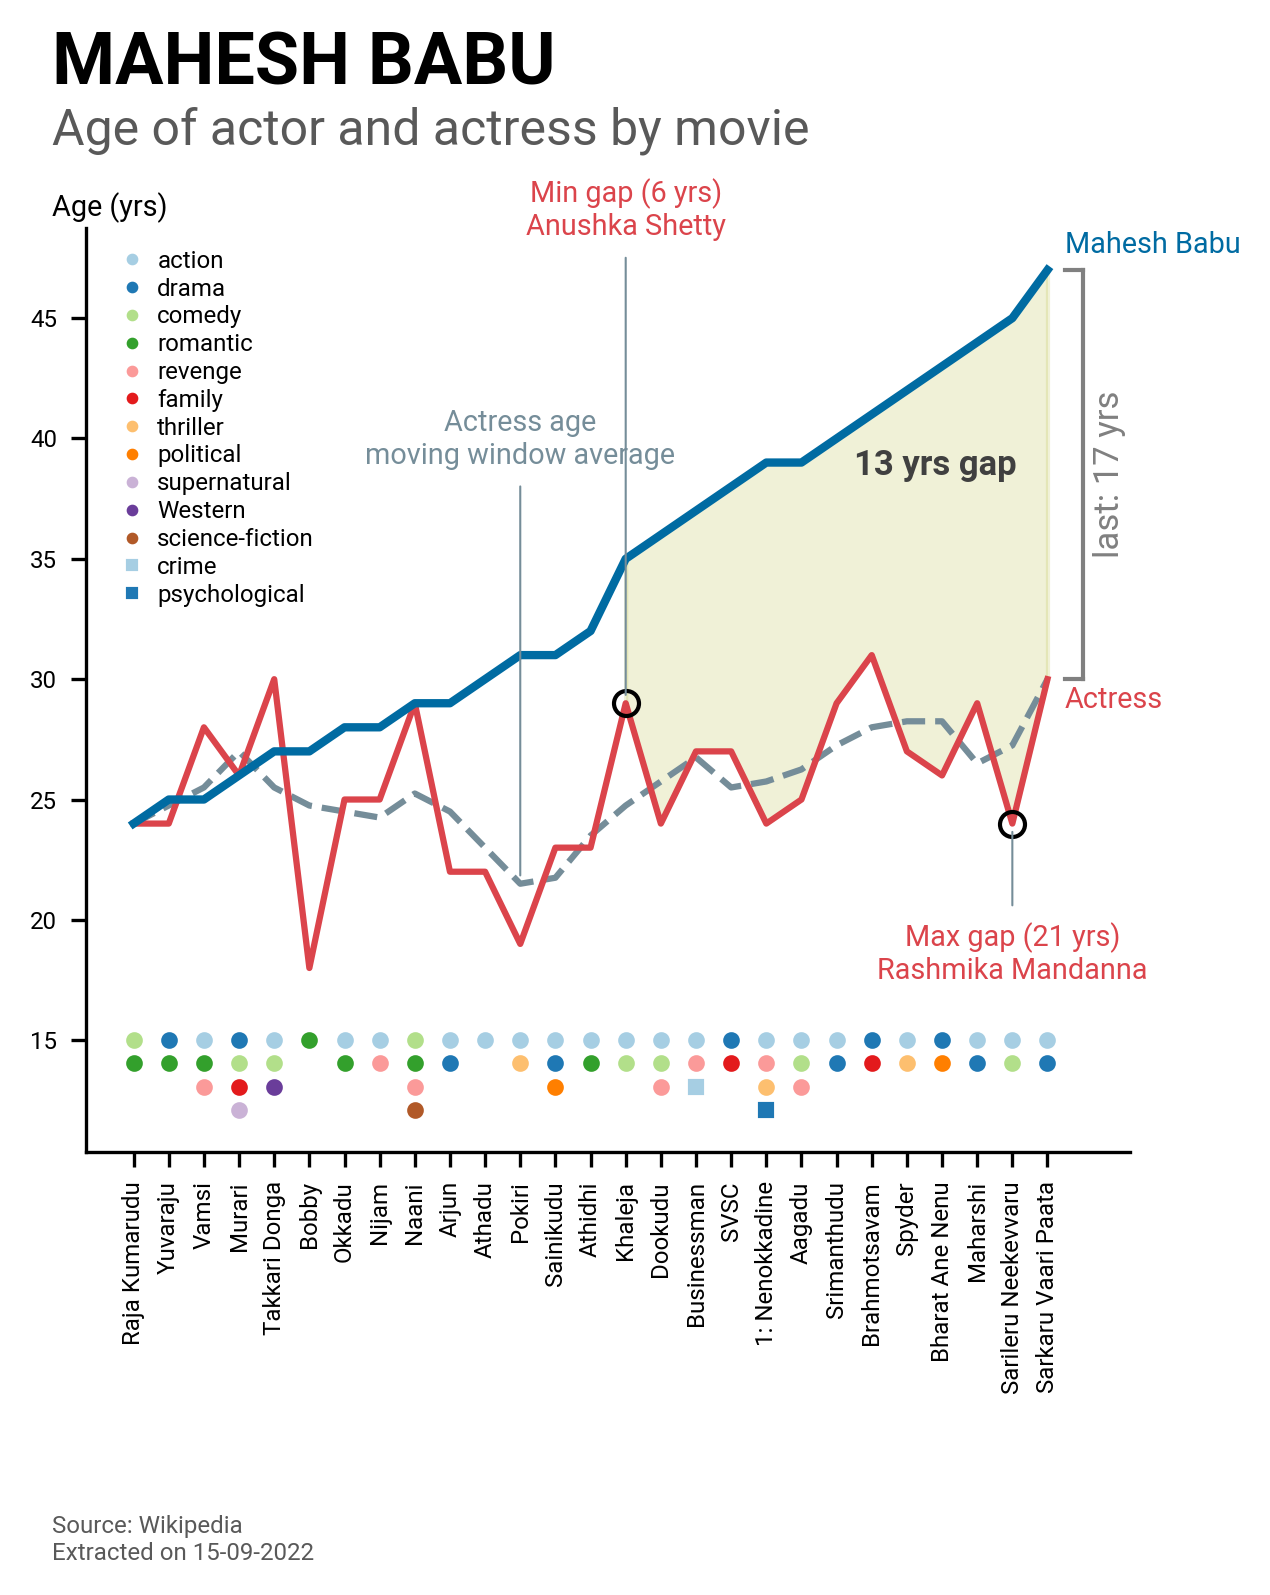
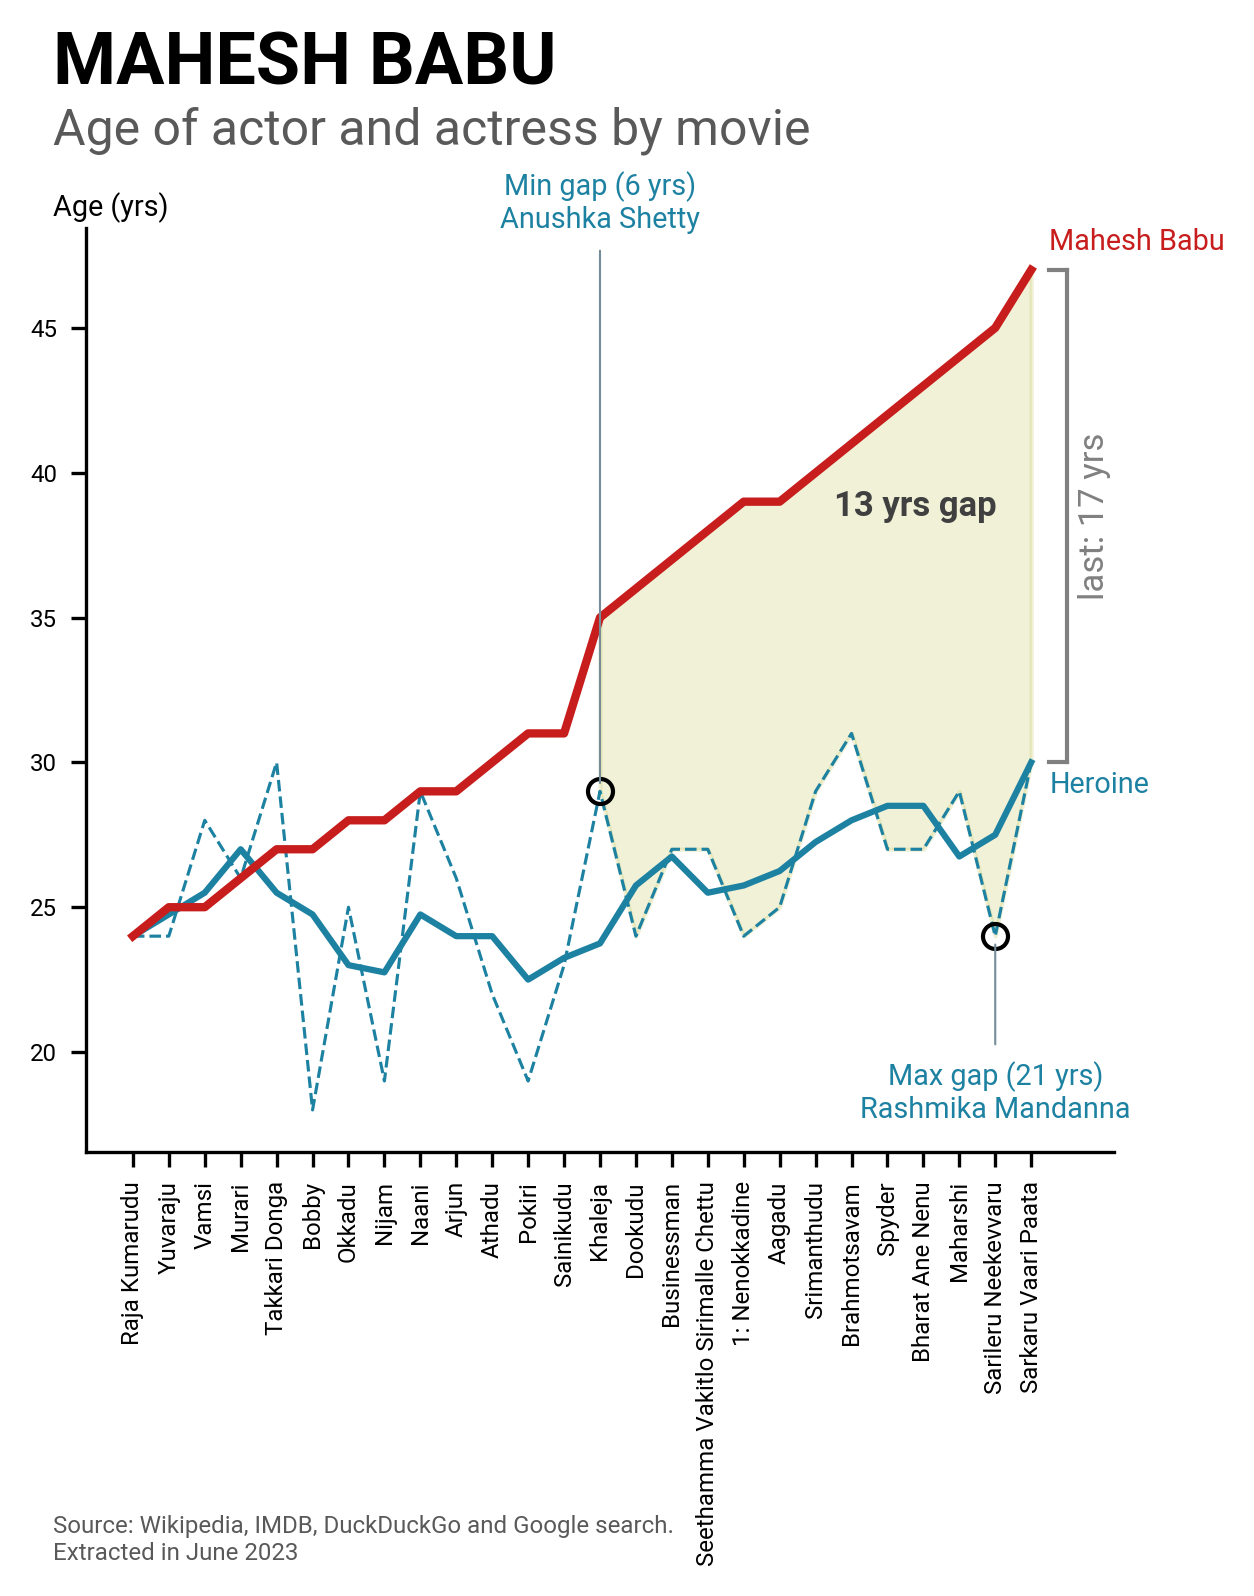
movie updates

diff --git a/projects/cricket_analytics/ipl_batters_strategies/ipl_batters_strategies.html b/projects/cricket_analytics/ipl_batters_strategies/ipl_batters_strategies.html
@@ -356,7 +356,7 @@ gtag('config', 'G-1TYCEPVLW0', { 'anonymize_ip': true});
 <section id="the-trade-off-between-strike-rate-and-risk" class="level2">
 <h2 class="anchored" data-anchor-id="the-trade-off-between-strike-rate-and-risk">The trade-off between strike-rate and risk</h2>
 <p>The trade-off between risk and strike-rate takes the center stage in individual batter strategies. A batter willing to take more risk has access to a wider range of shots for each ball, often diverging employing shots that diverge from the prescribed shots in the coaching manual. Some batters like Andre Russell score quick runs while taking more risks. This increases their chance of getting out each ball, and thereby they end up playing fewer balls. Such finishers usually come later in the innings when there aren’t a lot of balls left. Some teams like the Kolkata Knight Riders have often sent out “pinch hitters” like Sunil Narine earlier in the innings, often as an opener. On the other hand, batters like AB de Villiers and Jos Buttler switch gears between low and moderate risk. But even at the highest risk, the emphasis is slightly more on surviving to play another ball than is for batters like Andre Russell. More conventional batters like Mike Hussey, Tendulkar and Kallis rely heavily on a risk-minimal approach unless the situation strongly demands otherwise.</p>
-<p><a href="strike-rates_balls-faced_allbatters_ipl_mobile.png" class="lightbox" title="Strike-rates vs balls faced" data-gallery="quarto-lightbox-gallery-1"><img src="strike-rates_balls-faced_allbatters_ipl_mobile.png" class="mobile-only zoomable img-fluid" alt="Strike-rates vs balls faced"></a> <a href="strike-rates_balls-faced_allbatters_ipl_desktop.png" class="lightbox" title="Strike-rates vs balls faced" data-gallery="quarto-lightbox-gallery-2"><img src="strike-rates_balls-faced_allbatters_ipl_desktop.png" class="desktop-only zoomable img-fluid" alt="Strike-rates vs balls faced"></a></p>
+<p><a href="strike-rates_balls-faced_allbatters_ipl_mobile.png" class="lightbox" data-gallery="quarto-lightbox-gallery-1" title="Strike-rates vs balls faced"><img src="strike-rates_balls-faced_allbatters_ipl_mobile.png" class="mobile-only zoomable img-fluid" alt="Strike-rates vs balls faced"></a> <a href="strike-rates_balls-faced_allbatters_ipl_desktop.png" class="lightbox" data-gallery="quarto-lightbox-gallery-2" title="Strike-rates vs balls faced"><img src="strike-rates_balls-faced_allbatters_ipl_desktop.png" class="desktop-only zoomable img-fluid" alt="Strike-rates vs balls faced"></a></p>
 <p>The figure above illustrates some aspects of this trade-off. Keeping tail-enders aside, notice that batters are spread on the diagonal from the top left to the bottom right. Classical players like Mike Hussey, Kallis, Tendulkar and Gaikwad are in the top left quarter - they play more balls than most others and hit at a lower strike-rate than most others. As we move through the large group of unnamed batters marked in blue, we find another group of players like Maxwell, Pollard and Hardik Pandya who play fewer balls than most others and hit at a higher rate than most others. Some notable exceptions are batters who seem to escape this trade-off, or perhaps push it to its limits - KL Rahul, Jos Buttler, AB de Villiers, Warner, Gayle, Russell and the like.</p>
 <p>Openers play more balls than the other batter types while also exhibiting a wide range of strike-rates. For example, Gaikwad’s average strike-rate is just short of 100 and Jos Buttler’s is around 135. Gaikwad, however, typically plays a few more balls than Jos Buttler. How do these different strategies impact the match outcome?</p>
 </section>
@@ -364,7 +364,7 @@ gtag('config', 'G-1TYCEPVLW0', { 'anonymize_ip': true});
 <h2 class="anchored" data-anchor-id="strategy-differences-between-winning-and-losing">Strategy differences between winning and losing</h2>
 <p>Separating the innings played by each batter into two groups based on whether their team won or lost the match, we can measure how different the batters strategies are in the two groups.</p>
 <p>Instead of measuring the difference between mean strike-rate in wins and mean strike-rate in losses for each batter, we use <em>percentile scores</em>. The mean percentile score from strike-rates in wins (losses) tells us overall in all innings, how often the batter scores slower than they typically score at in wins (losses). The difference between these two values (wins minus losses) quantifies the typical increase (if positive) or decrease (if negative) of strike-rates from losses to wins. A similar logic applies for balls faced - the difference between mean percentile scores in wins and losses quantifies the typical increase (if positive) or decrease (if negative) in the number of balls faced from losses to wins.</p>
-<p><a href="match-outcomes_strike-rates_balls-faced_allbatters_ipl_mobile.png" class="lightbox" title="Differences in strike-rates and balls faced between wins and losses" data-gallery="quarto-lightbox-gallery-3"><img src="match-outcomes_strike-rates_balls-faced_allbatters_ipl_mobile.png" class="mobile-only img-fluid" alt="Differences in strike-rates and balls faced between wins and losses"></a> <a href="match-outcomes_strike-rates_balls-faced_allbatters_ipl_desktop.png" class="lightbox" title="Differences in strike-rates and balls faced between wins and losses" data-gallery="quarto-lightbox-gallery-4"><img src="match-outcomes_strike-rates_balls-faced_allbatters_ipl_desktop.png" class="desktop-only img-fluid" alt="Differences in strike-rates and balls faced between wins and losses"></a></p>
+<p><a href="match-outcomes_strike-rates_balls-faced_allbatters_ipl_mobile.png" class="lightbox" data-gallery="quarto-lightbox-gallery-3" title="Differences in strike-rates and balls faced between wins and losses"><img src="match-outcomes_strike-rates_balls-faced_allbatters_ipl_mobile.png" class="mobile-only img-fluid" alt="Differences in strike-rates and balls faced between wins and losses"></a> <a href="match-outcomes_strike-rates_balls-faced_allbatters_ipl_desktop.png" class="lightbox" data-gallery="quarto-lightbox-gallery-4" title="Differences in strike-rates and balls faced between wins and losses"><img src="match-outcomes_strike-rates_balls-faced_allbatters_ipl_desktop.png" class="desktop-only img-fluid" alt="Differences in strike-rates and balls faced between wins and losses"></a></p>
 
 <div class="no-row-height column-margin column-container"><div class="">
 <p><strong>How is the calculation done?</strong> Percentile scores transform data into values between 0 and 1, making comparisons across datasets with different ranges easier. The percentile score of a particular value is the fraction of data that is smaller than the value. We do this for each batter separately for both strike-rates and balls faced. The percentile score of a particular strike-rate (in some particular innings) of a batter tells us how often the batter has scored slower than in that innings. So for the batter’s IPL career-best strike-rate, the percentile score would be 1 (signifying that the batter plays slower in all other innings), and for the batter’s IPL career-worst strike rate, the percentile score would be 0.</p>
@@ -1932,7 +1932,7 @@ window.document.addEventListener("DOMContentLoaded", function (event) {
     <div class="nav-footer-left">© Copyright 2023 Roshan Prizak. Except where otherwise noted, all text and images licensed CC-BY-NC 4.0.</div>   
   </div>
 </footer>
-<script>var lightboxQuarto = GLightbox({"descPosition":"bottom","closeEffect":"zoom","loop":true,"selector":".lightbox","openEffect":"zoom"});</script>
+<script>var lightboxQuarto = GLightbox({"selector":".lightbox","descPosition":"bottom","closeEffect":"zoom","openEffect":"zoom","loop":true});</script>
 
 
 

diff --git a/projects/the_india_project/movies_india/movies_india.html b/projects/the_india_project/movies_india/movies_india.html
@@ -377,7 +377,7 @@ gtag('config', 'G-1TYCEPVLW0', { 'anonymize_ip': true});
 <p><a href="./hero_based_age_gap/Chiranjeevi.png" class="lightbox hero-link" title="Chiranjeevi" data-gallery="my-gallery"> <img src="avatars/Chiranjeevi.jpg" width="75px" height="75px" class="avatar"> </a></p>
 </div>
 <div class="g-col-3">
-<p><a href="./hero_based_age_gap/NTR Jr.png" class="lightbox hero-link" title="NTR Jr" data-gallery="my-gallery"> <img src="avatars/NTR Jr.jpg" width="75px" height="75px" class="avatar"> </a></p>
+<p><a href="./hero_based_age_gap/Jr. NTR.png" class="lightbox hero-link" title="NTR Jr" data-gallery="my-gallery"> <img src="avatars/NTR Jr.jpg" width="75px" height="75px" class="avatar"> </a></p>
 </div>
 <div class="g-col-3">
 <p><a href="./hero_based_age_gap/Akshay Kumar.png" class="lightbox hero-link" title="Akshay Kumar" data-gallery="my-gallery"> <img src="avatars/Akshay Kumar.jpg" width="75px" height="75px" class="avatar"> </a></p>
@@ -395,7 +395,7 @@ gtag('config', 'G-1TYCEPVLW0', { 'anonymize_ip': true});
 <p><a href="./hero_based_age_gap/Nagarjuna.png" class="lightbox hero-link" title="Nagarjuna" data-gallery="my-gallery"> <img src="avatars/Nagarjuna.jpg" width="75px" height="75px" class="avatar"> </a></p>
 </div>
 <div class="g-col-3">
-<p><a href="./hero_based_age_gap/Balakrishna.png" class="lightbox hero-link" title="Balakrishna" data-gallery="my-gallery"> <img src="avatars/Balakrishna.jpg" width="75px" class="avatar"> </a></p>
+<p><a href="./hero_based_age_gap/Nandamuri Balakrishna.png" class="lightbox hero-link" title="Balakrishna" data-gallery="my-gallery"> <img src="avatars/Balakrishna.jpg" width="75px" class="avatar"> </a></p>
 </div>
 <div class="g-col-3">
 <p><a href="./hero_based_age_gap/Pawan Kalyan.png" class="lightbox hero-link" title="Pawan Kalyan" data-gallery="my-gallery"> <img src="avatars/Pawan Kalyan.jpg" width="75px" height="75px" class="avatar"> </a></p>
@@ -447,30 +447,30 @@ gtag('config', 'G-1TYCEPVLW0', { 'anonymize_ip': true});
 <section id="ages-and-age-gaps-over-the-years" class="level3">
 <h3 class="anchored" data-anchor-id="ages-and-age-gaps-over-the-years">Ages and age gaps over the years</h3>
 <div style="min-height:400px; max-width: 600px; margin-top:30px;">
-<script type="text/javascript" defer="" src="https://datawrapper.dwcdn.net/60eFX/embed.js" charset="utf-8"></script>
+<script type="text/javascript" defer="" src="https://datawrapper.dwcdn.net/VymrI/embed.js" charset="utf-8"></script>
 <noscript>
-<img src="https://datawrapper.dwcdn.net/60eFX/full.png" alt="">
+<img src="https://datawrapper.dwcdn.net/VymrI/full.png" alt="">
 </noscript>
 </div>
 <div style="min-height:400px; max-width: 600px; margin-top:30px;">
-<script type="text/javascript" defer="" src="https://datawrapper.dwcdn.net/HUMKE/embed.js" charset="utf-8"></script>
+<script type="text/javascript" defer="" src="https://datawrapper.dwcdn.net/uNrVT/embed.js" charset="utf-8"></script>
 <noscript>
-<img src="https://datawrapper.dwcdn.net/HUMKE/full.png" alt="">
+<img src="https://datawrapper.dwcdn.net/uNrVT/full.png" alt="">
 </noscript>
 </div>
 <div style="min-height:400px; max-width: 600px; margin-top:30px;">
-<script type="text/javascript" defer="" src="https://datawrapper.dwcdn.net/kir9k/embed.js" charset="utf-8"></script>
+<script type="text/javascript" defer="" src="https://datawrapper.dwcdn.net/aA149/embed.js" charset="utf-8"></script>
 <noscript>
-<img src="https://datawrapper.dwcdn.net/kir9k/full.png" alt="">
+<img src="https://datawrapper.dwcdn.net/aA149/full.png" alt="">
 </noscript>
 </div>
 </section>
 <section id="debuts-and-exits" class="level3">
 <h3 class="anchored" data-anchor-id="debuts-and-exits">Debuts and exits</h3>
-<div style="min-height:1991px; max-width: 600px; margin-top:30px;">
-<script type="text/javascript" defer="" src="https://datawrapper.dwcdn.net/1qEuW/embed.js" charset="utf-8"></script>
+<div style="min-height:1990px; max-width: 600px; margin-top:30px;">
+<script type="text/javascript" defer="" src="https://datawrapper.dwcdn.net/eJEed/embed.js" charset="utf-8"></script>
 <noscript>
-<img src="https://datawrapper.dwcdn.net/1qEuW/full.png" alt="">
+<img src="https://datawrapper.dwcdn.net/eJEed/full.png" alt="">
 </noscript>
 </div>
 <div style="min-height:1991px; max-width: 600px; margin-top:30px;">
@@ -503,7 +503,7 @@ gtag('config', 'G-1TYCEPVLW0', { 'anonymize_ip': true});
 </section>
 <section id="female-lead-movies-and-genres" class="level3">
 <h3 class="anchored" data-anchor-id="female-lead-movies-and-genres">Female-lead movies and genres</h3>
-<div style="min-height:400px; max-width: 600px; margin-top:30px;">
+<div style="min-height:580px; max-width: 600px; margin-top:30px;">
 <script type="text/javascript" defer="" src="https://datawrapper.dwcdn.net/Qah6K/embed.js" charset="utf-8"></script>
 <noscript>
 <img src="https://datawrapper.dwcdn.net/Qah6K/full.png" alt="">
@@ -812,7 +812,7 @@ window.document.addEventListener("DOMContentLoaded", function (event) {
     <div class="nav-footer-left">© Copyright 2023 Roshan Prizak. Except where otherwise noted, all text and images licensed CC-BY-NC 4.0.</div>   
   </div>
 </footer>
-<script>var lightboxQuarto = GLightbox({"selector":".lightbox","descPosition":"bottom","loop":true,"closeEffect":"zoom","openEffect":"zoom"});</script>
+<script>var lightboxQuarto = GLightbox({"descPosition":"bottom","openEffect":"zoom","selector":".lightbox","closeEffect":"zoom","loop":true});</script>
 
 
 

diff --git a/projects.html b/projects.html
@@ -425,7 +425,7 @@ Evaluating and visualizing accessibility of Vienna’s public transport in vario
 </div>
 </a>
 </div>
-<div class="g-col-1" data-index="4" data-categories="Data science,India" data-listing-file-modified-sort="1687474986383" data-listing-reading-time-sort="2.95">
+<div class="g-col-1" data-index="4" data-categories="Data science,India" data-listing-file-modified-sort="1687531093754" data-listing-reading-time-sort="2.955">
 <a href="./projects/the_india_project/movies_india/movies_india.html" class="quarto-grid-link">
 <div class="quarto-grid-item card h-100 card-left">
 <p class="card-img-top">

diff --git a/projects/health/wha_resolutions/analyze_keywords.html b/projects/health/wha_resolutions/analyze_keywords.html
@@ -1022,7 +1022,7 @@ window.document.addEventListener("DOMContentLoaded", function (event) {
     <div class="nav-footer-left">© Copyright 2023 Roshan Prizak. Except where otherwise noted, all text and images licensed CC-BY-NC 4.0.</div>   
   </div>
 </footer>
-<script>var lightboxQuarto = GLightbox({"descPosition":"bottom","loop":true,"selector":".lightbox","openEffect":"zoom","closeEffect":"zoom"});</script>
+<script>var lightboxQuarto = GLightbox({"closeEffect":"zoom","openEffect":"zoom","loop":true,"selector":".lightbox","descPosition":"bottom"});</script>
 
 
 

diff --git a/projects/the_india_project/car_prices_india/car_prices_india.html b/projects/the_india_project/car_prices_india/car_prices_india.html
@@ -579,7 +579,7 @@ window.document.addEventListener("DOMContentLoaded", function (event) {
     <div class="nav-footer-left">© Copyright 2023 Roshan Prizak. Except where otherwise noted, all text and images licensed CC-BY-NC 4.0.</div>   
   </div>
 </footer>
-<script>var lightboxQuarto = GLightbox({"openEffect":"zoom","descPosition":"bottom","selector":".lightbox","closeEffect":"zoom","loop":true});</script>
+<script>var lightboxQuarto = GLightbox({"openEffect":"zoom","selector":".lightbox","closeEffect":"zoom","loop":true,"descPosition":"bottom"});</script>
 
 
 
